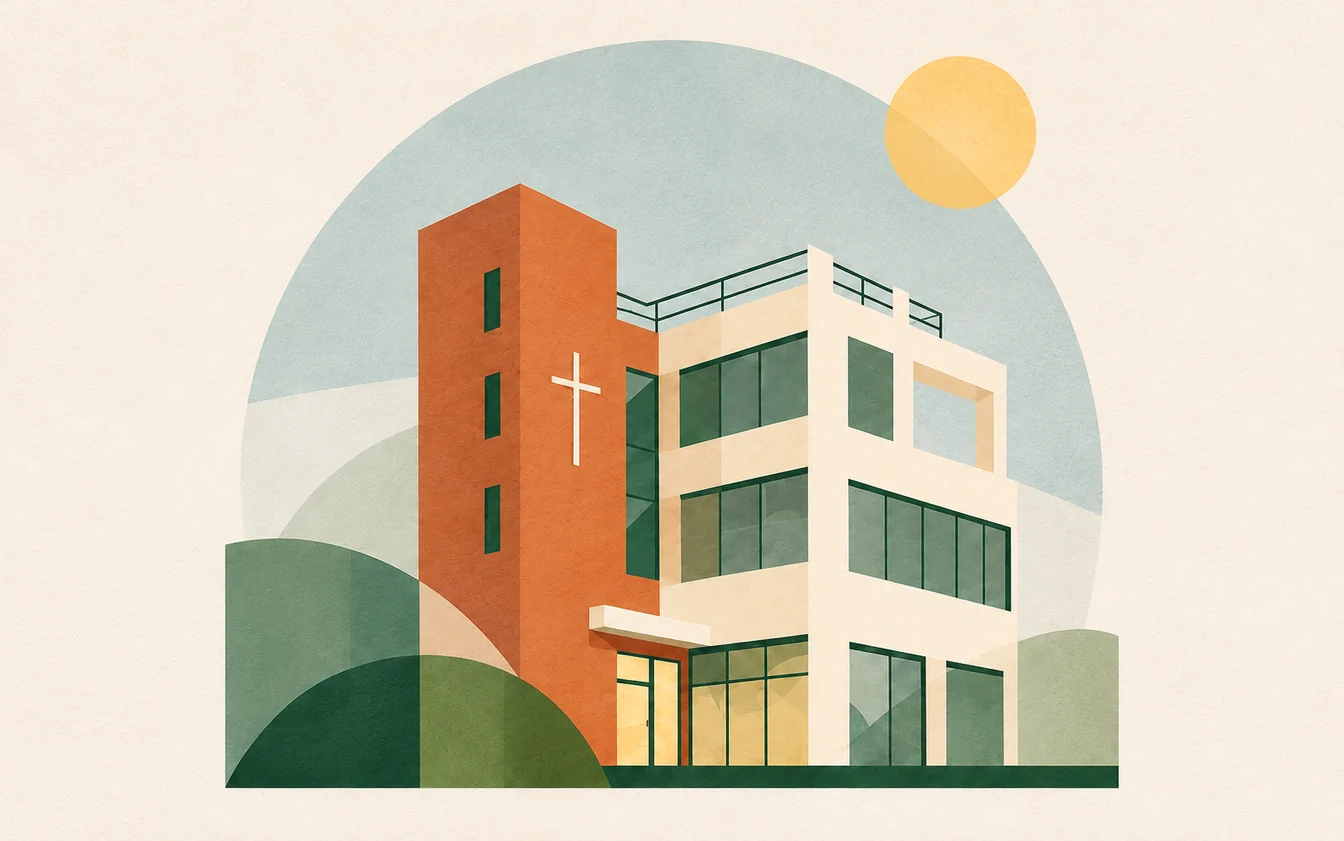
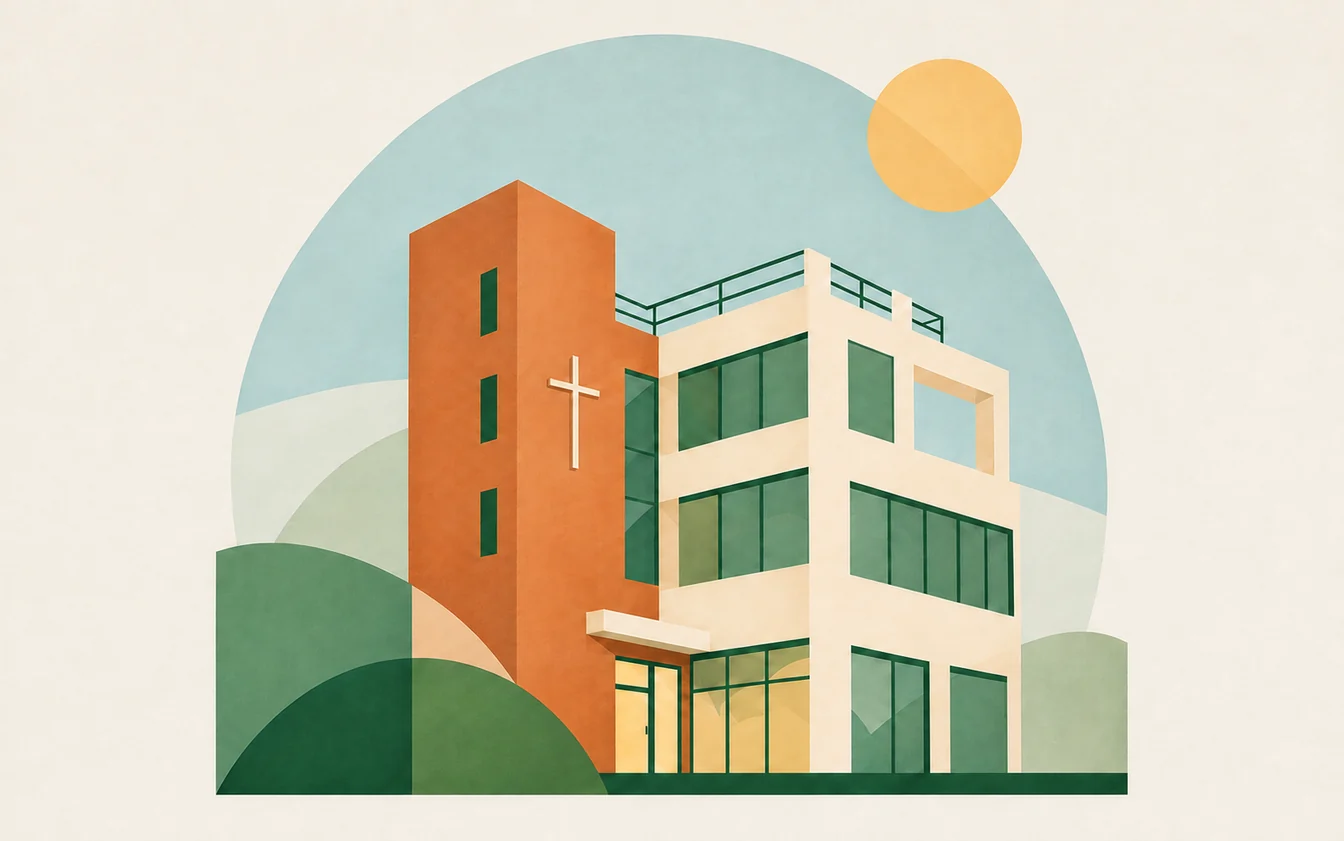
첫 화면 성전 이미지 색감 조정 (#942)
* fix: 첫 화면 일러스트 배경 밝기 조정

* fix: 갱신된 성전 이미지 캐시 적용

diff --git a/index.html b/index.html
@@ -89,8 +89,8 @@
                 <h1 id="hero-title"></h1>
                 <p class="hero-sub" id="hero-sub"></p>
             </div>
-            <img class="hero-illustration home-hero-image" src="images/hero/church-home-bauhaus-672.webp"
-                 srcset="images/hero/church-home-bauhaus-672.webp 672w, images/hero/church-home-bauhaus-960.webp 960w, images/hero/church-home-bauhaus-1344.webp 1344w, images/hero/church-home-bauhaus-1586.webp 1586w"
+            <img class="hero-illustration home-hero-image" src="images/hero/church-home-bauhaus-672.webp?v=2"
+                 srcset="images/hero/church-home-bauhaus-672.webp?v=2 672w, images/hero/church-home-bauhaus-960.webp?v=2 960w, images/hero/church-home-bauhaus-1344.webp?v=2 1344w, images/hero/church-home-bauhaus-1586.webp?v=2 1586w"
                  sizes="(min-width: 66rem) 32rem, (min-width: 800px) 50vw, 90vw" width="672" height="420"
                  alt="" fetchpriority="high">
             <div class="home-hero-visit" id="hero-actions">
